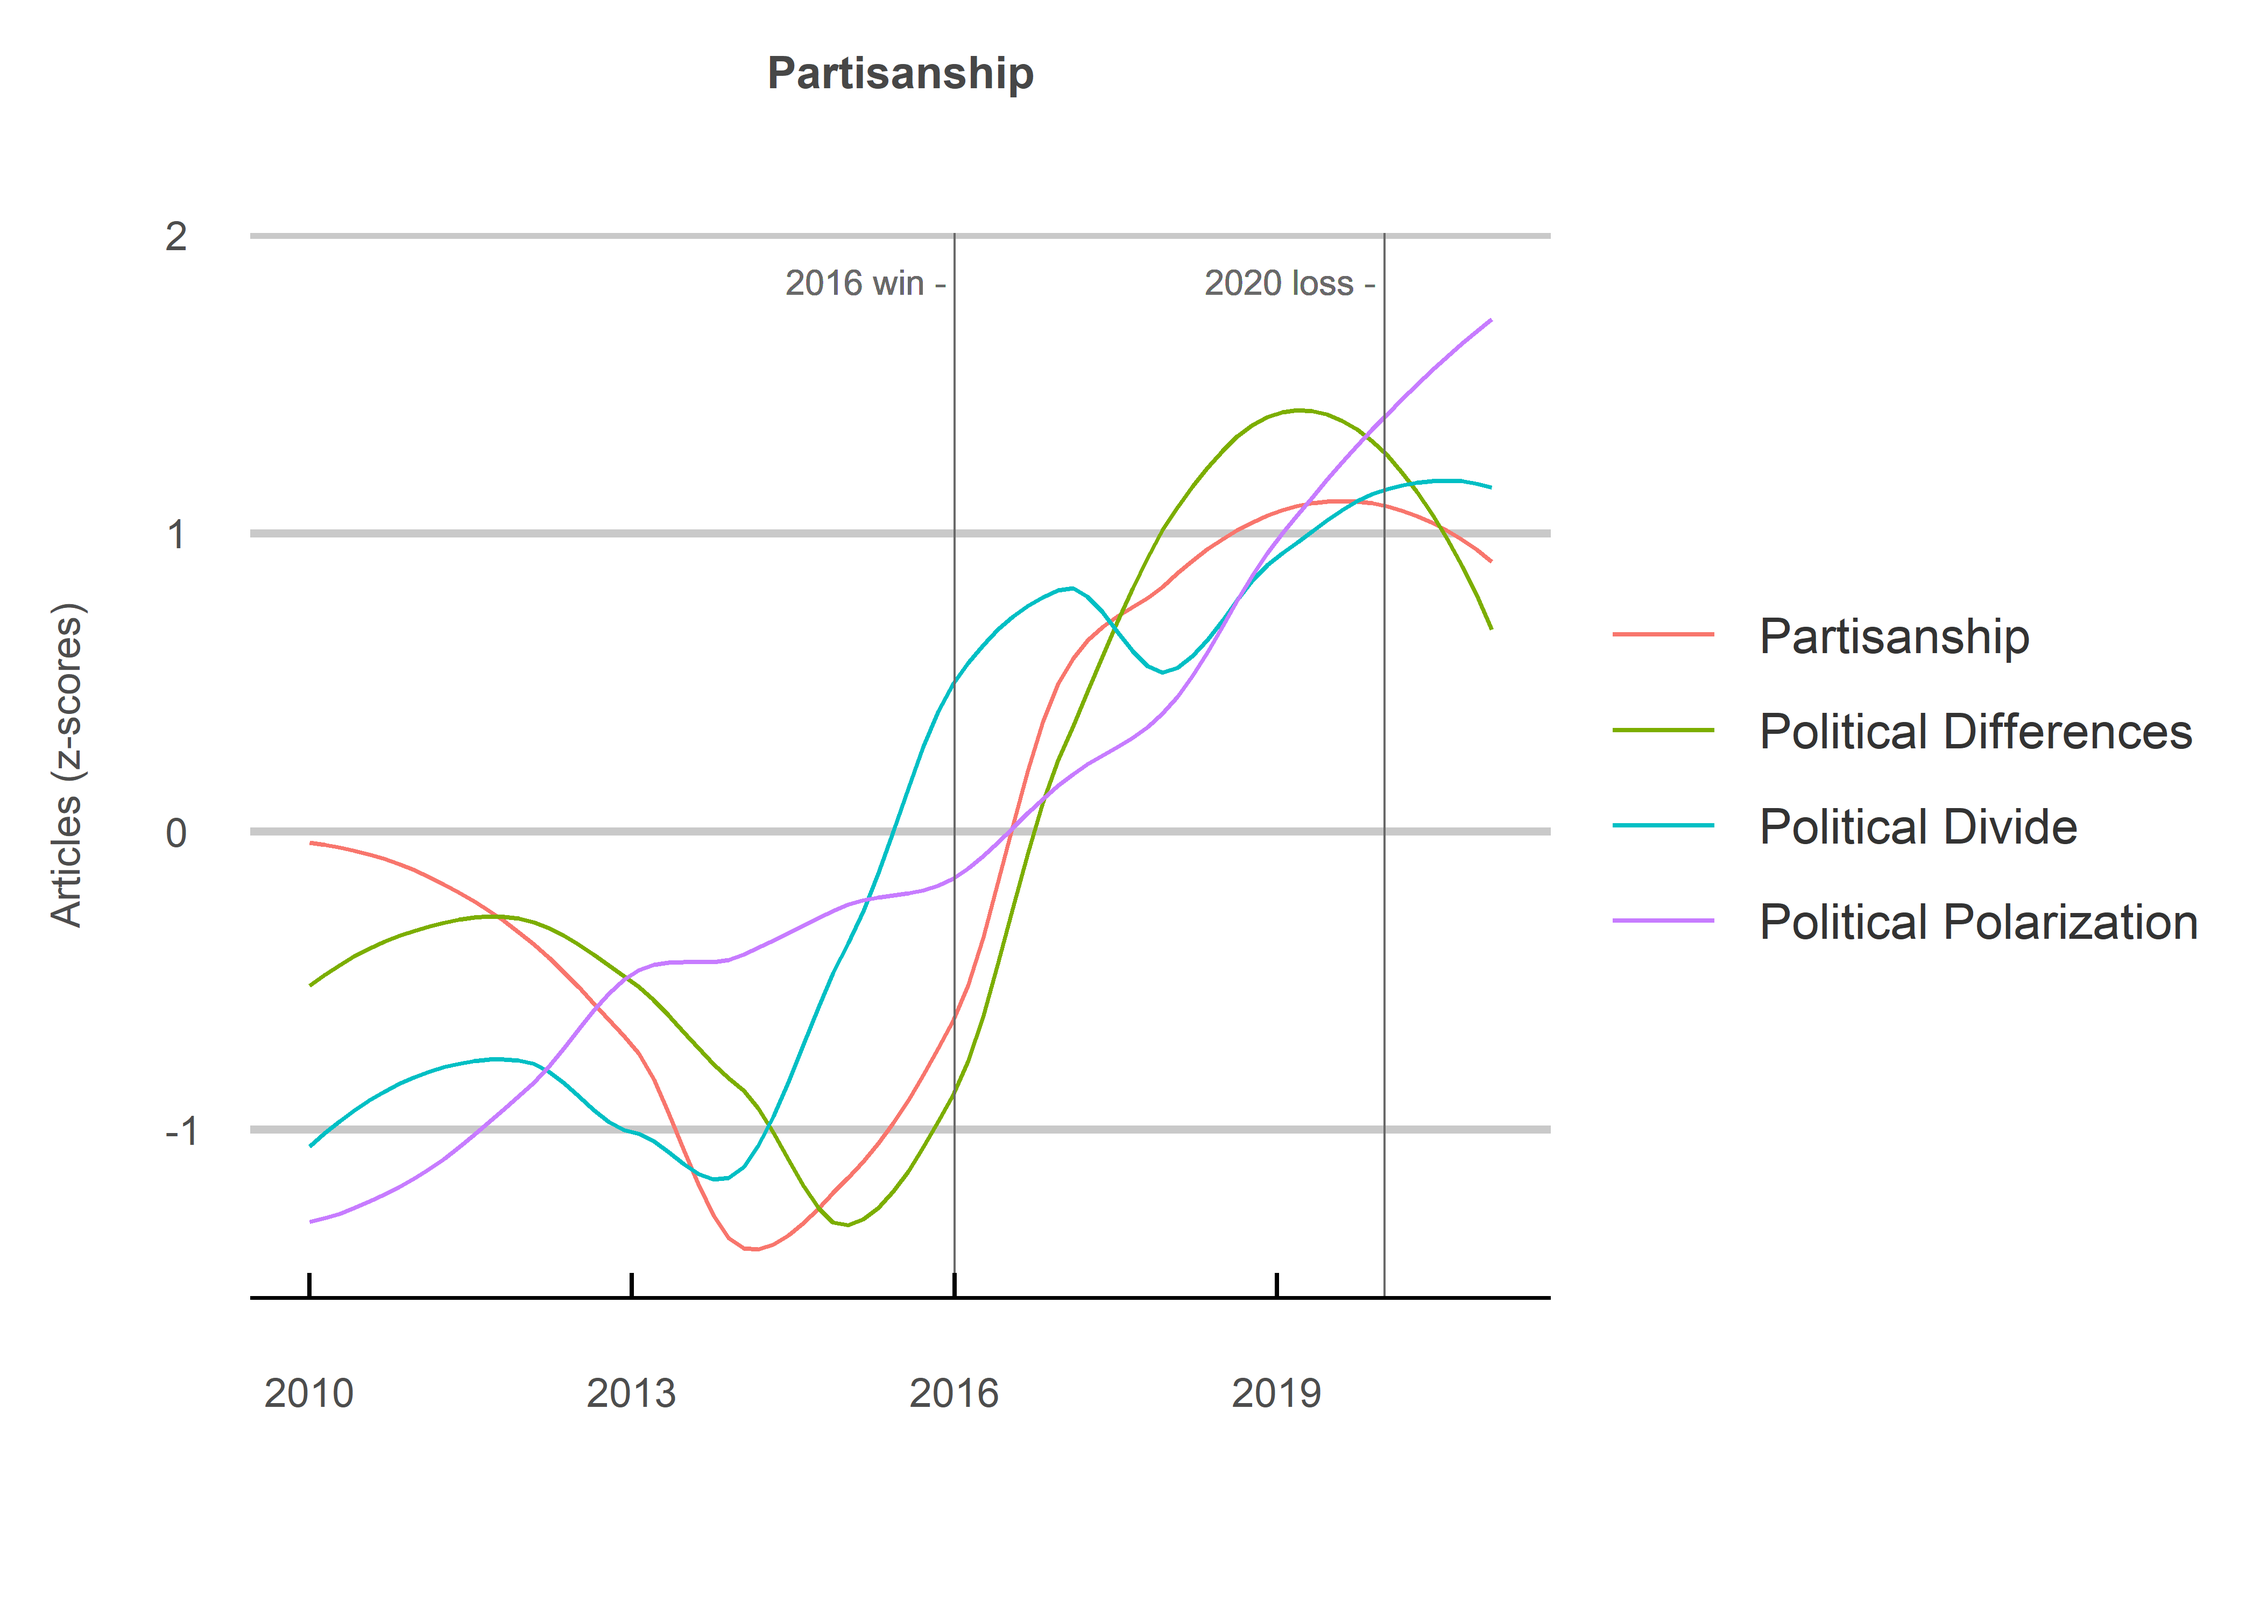
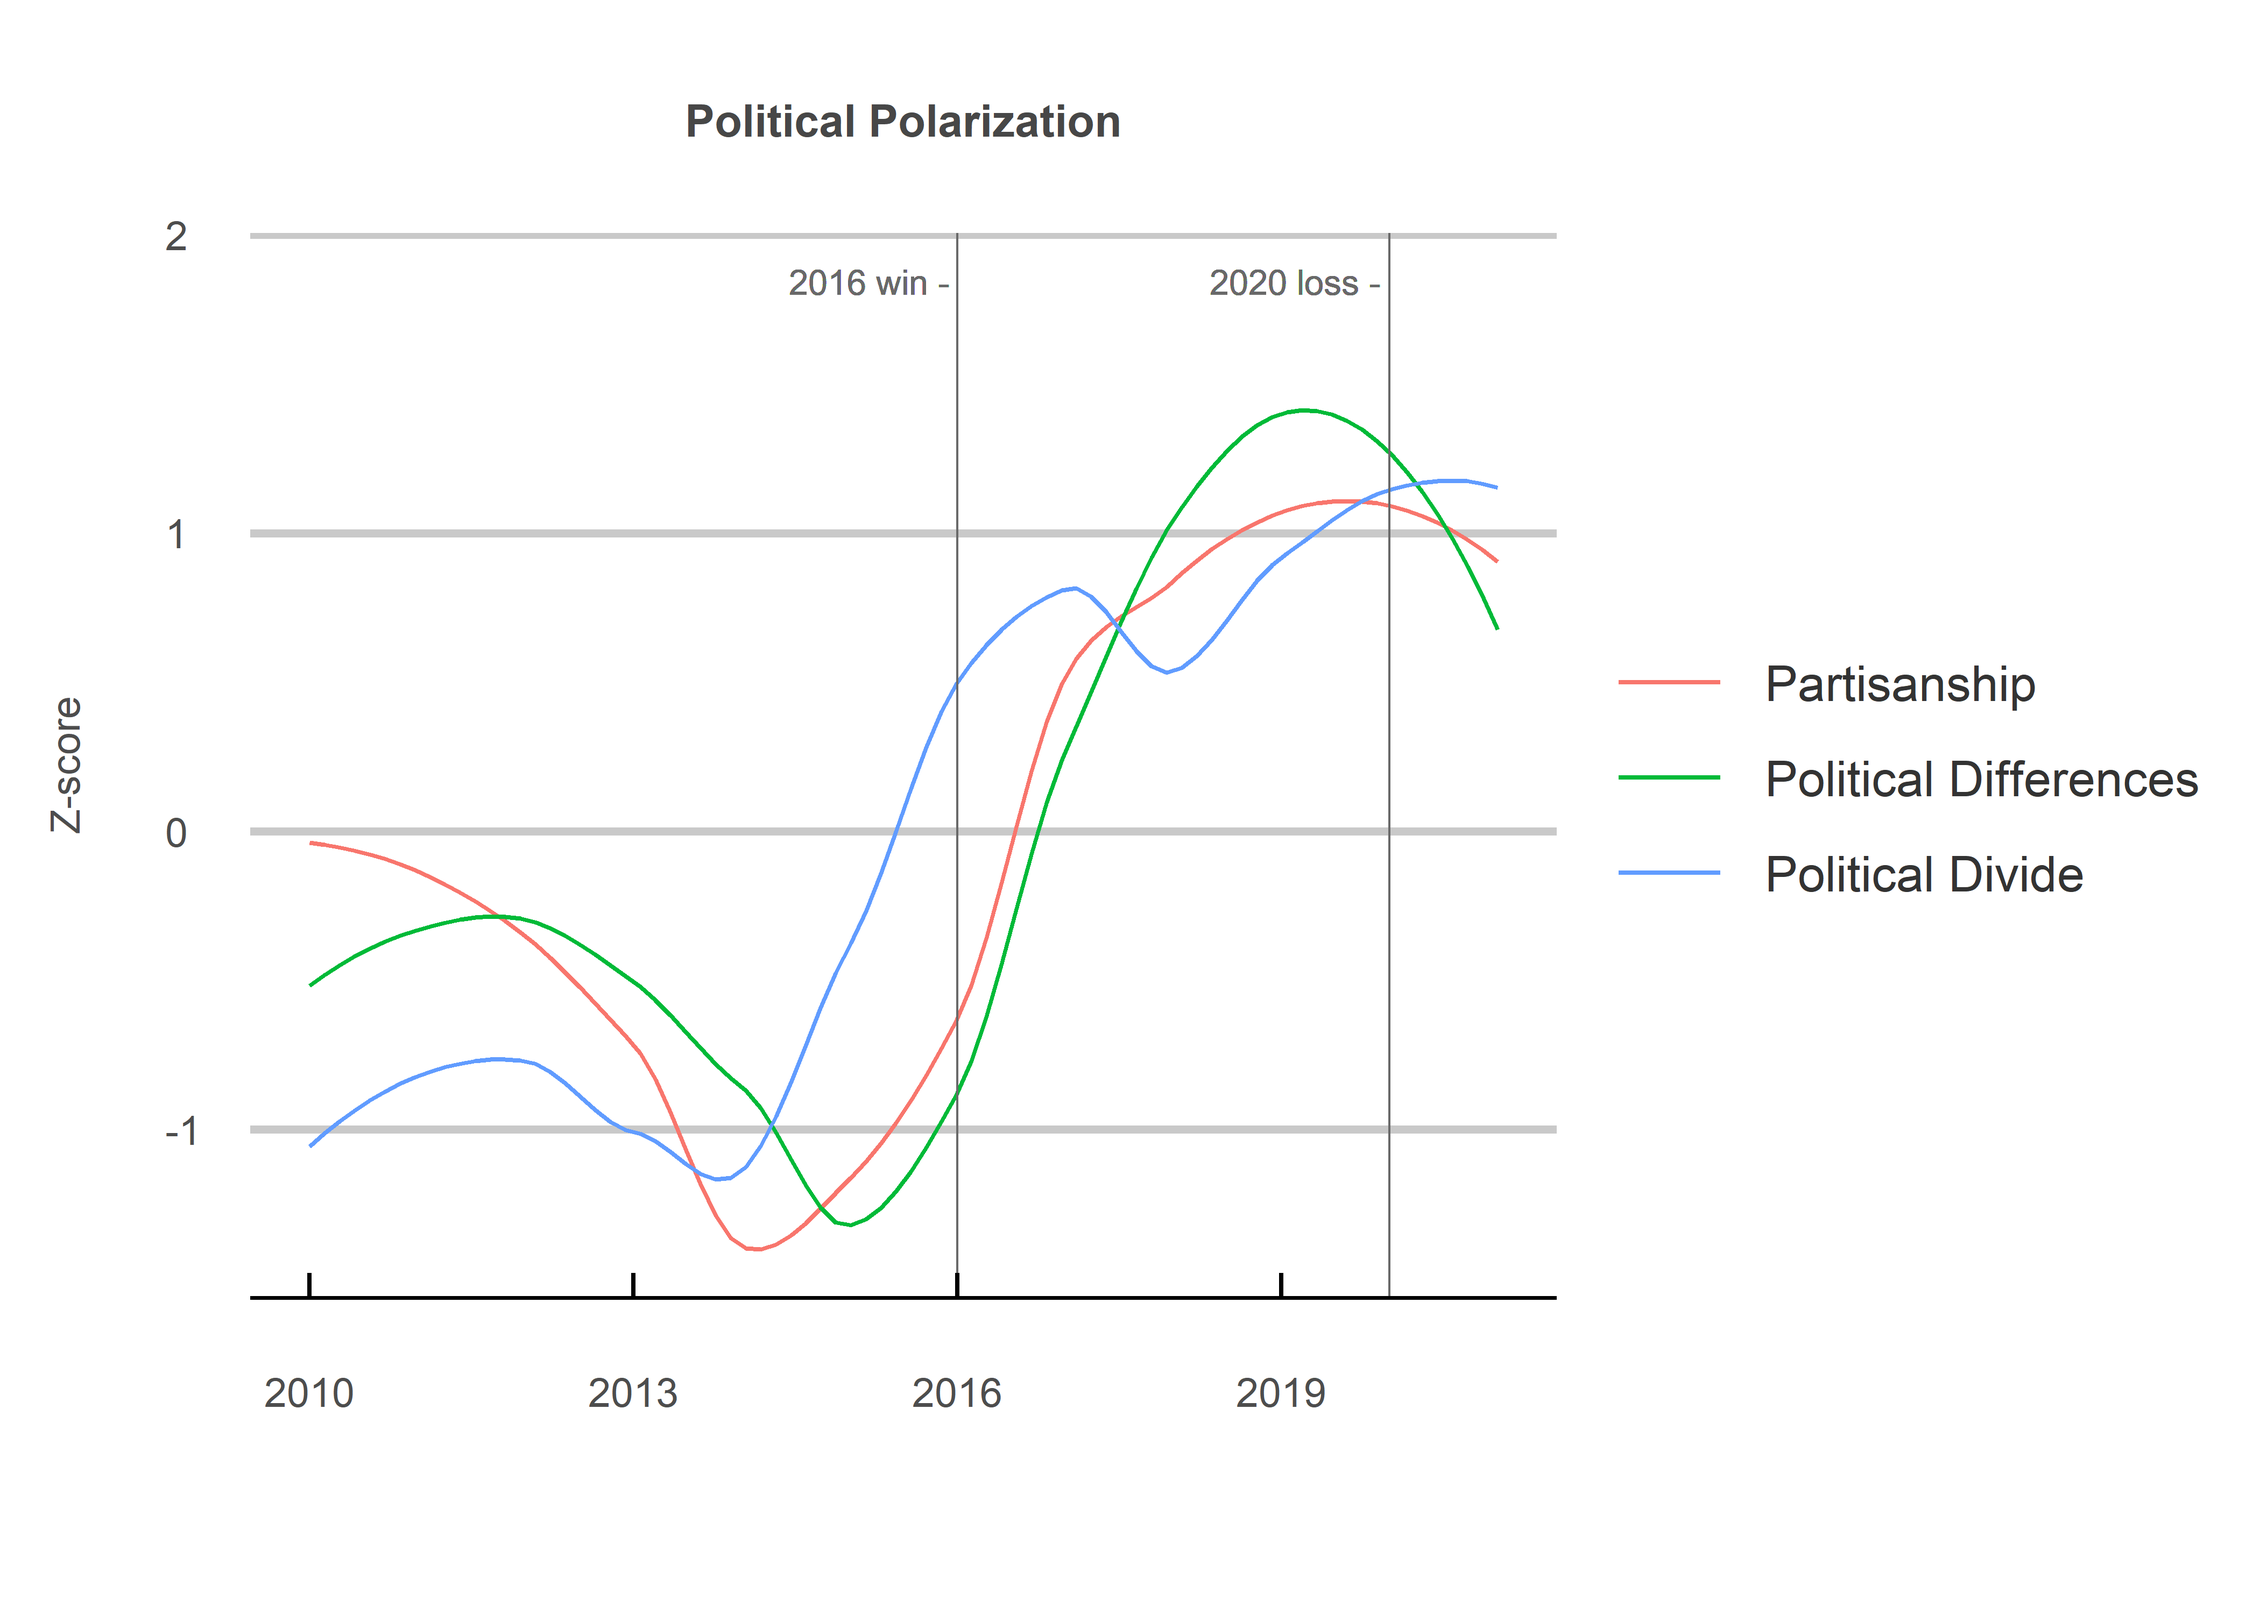
updating files

diff --git a/The-Good-the-Bad-and-the-Ugly.md b/The-Good-the-Bad-and-the-Ugly.md
@@ -5,11 +5,15 @@ Jack Carter
 
 ## **Summary**
 
-This project shows how the conversation in the New York Times (NYT)
-changed following the 2016 election of Donald Trump. A strong sense of
-national belonging is undoubtedly good for any country, yet Trump’s rise
-also appears to have been accompanied by growing political partisanship
-and increased social discrimination.
+This project uses a z-score transformation on the number of articles
+containing certain terms to show how the conversation in the world’s
+most famous newspaper, The New York Times (NYT), changed following the
+2016 election of Donald Trump. Just like the characters in Clint
+Eastwood’s The Good, The Bad And The Ugly, the election elicited
+rhetoric indicating good (a heightened sense of national belonging for
+many (albeit predominantly white) Americans), bad (increasing political
+polarization), and ugly (growing social discrimination) changes in
+Trump’s America.
 
  
 
@@ -35,7 +39,7 @@ The data were collected from the New York Times API. They include the
 number of articles for each search term in the 12 years between 2011 and
 2022.
 
-**Total articles (thousands)**
+**Terms (article no. in 000s)**
 
 | Anti-Semitism | Islamophobia | National Identity | Partisan Politics | Partisanship | Patriotism | Political Differences | Political Divide | Political Polarization | Racism | Sexism | Transphobia |
 | ------------: | -----------: | ----------------: | ----------------: | -----------: | ---------: | --------------------: | ---------------: | ---------------------: | -----: | -----: | ----------: |
@@ -82,43 +86,25 @@ get_z_scores <- function(data) {
 
 The data for each term is plotted with the use of a loess regression
 line (geom\_smooth in the code below). This transforms the data into a
-smooth curve for a better visualization of underlying trends.
+smooth curve for a better visualization of overall trends.
 
 —EXAMPLE CODE SNIPET—
 
 ``` r
 # creates a plot with smoothed loess regression lines. 
 make_plot <- function(category, title) {
-  plot <- sorted_df %>%
-    filter(term %in% str_to_title(category)) %>%
-    ggplot(aes(x=year, 
-               y=z_score, 
-               col=term)) +
+  #plot <- sorted_df %>%
+    #filter(term %in% str_to_title(category)) %>%
+    #ggplot(aes(x=year, 
+               #y=z_score, 
+               #col=term)) +
     geom_smooth(se=F, 
                 span = 0.5, 
-                size = 0.5) +
-    geom_vline(xintercept = 2016,
-               size=0.25,
-               col="#696969") +
-    geom_text(aes(x=2016, 
-                  label="2016 win -", 
-                  y=max(z_score)+0.1,
-                  hjust=1.05),
-              size=2.75,
-              col="#696969") +
-    geom_vline(xintercept = 2020,
-               size=0.25,
-               col="#696969") +
-    geom_text(aes(x=2020, 
-                  label="2020 loss -",
-                  y=max(z_score)+0.1,
-                  hjust=1.05),
-              size=2.75,
-              col="#696969") +
-    ggtitle(title) +
-    ylab("Articles (z-scores)") +
-    xlab("") + 
-    my_theme
+                size = 0.5)
+    #ggtitle(title) +
+    #ylab("Articles (z-scores)") +
+    #xlab("") + 
+    #my_theme
   return(plot)
 }
 ```
@@ -126,6 +112,12 @@ make_plot <- function(category, title) {
  
 
 ## **Sources**
+
+  - Boyer (2019)
+    <https://www.esquire.com/news-politics/a26454551/donald-trump-interview-new-york-times-media-objectivity/>
+
+  - Rutenberg (2016)
+    <https://www.nytimes.com/2016/08/08/business/balance-fairness-and-a-proudly-provocative-presidential-candidate.html>
 
   - New York Times (2021) <https://developer.nytimes.com/apis>
 
